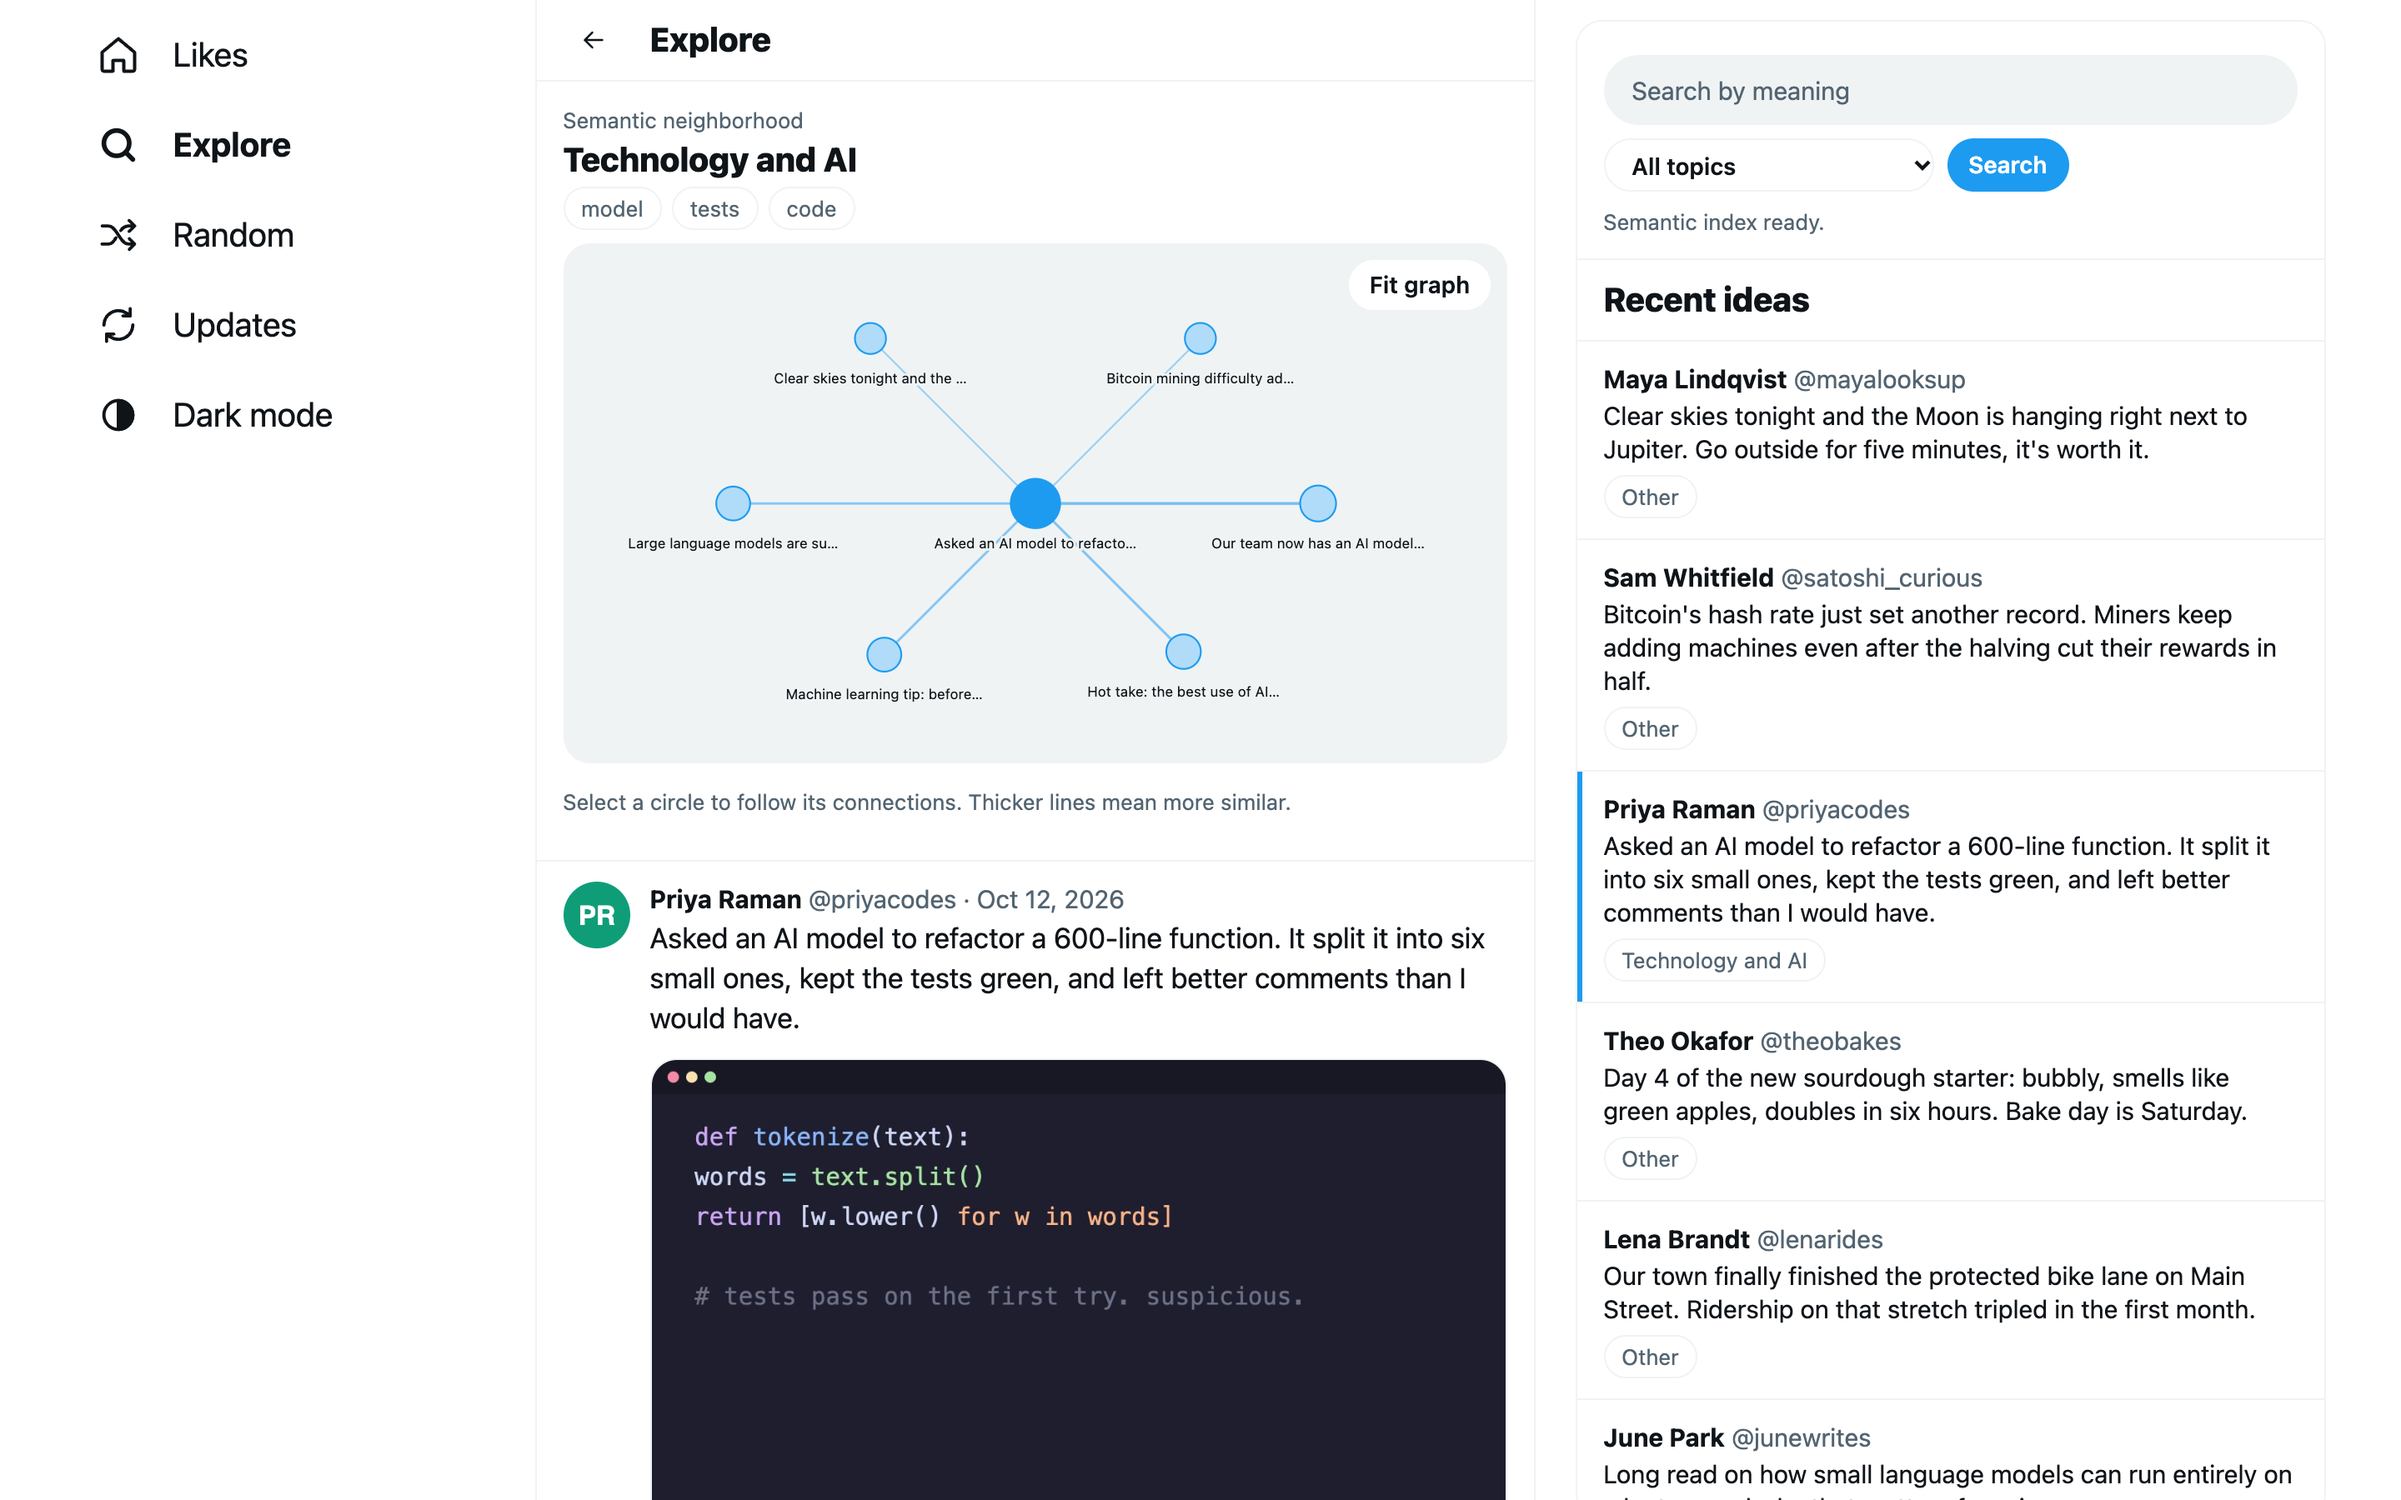
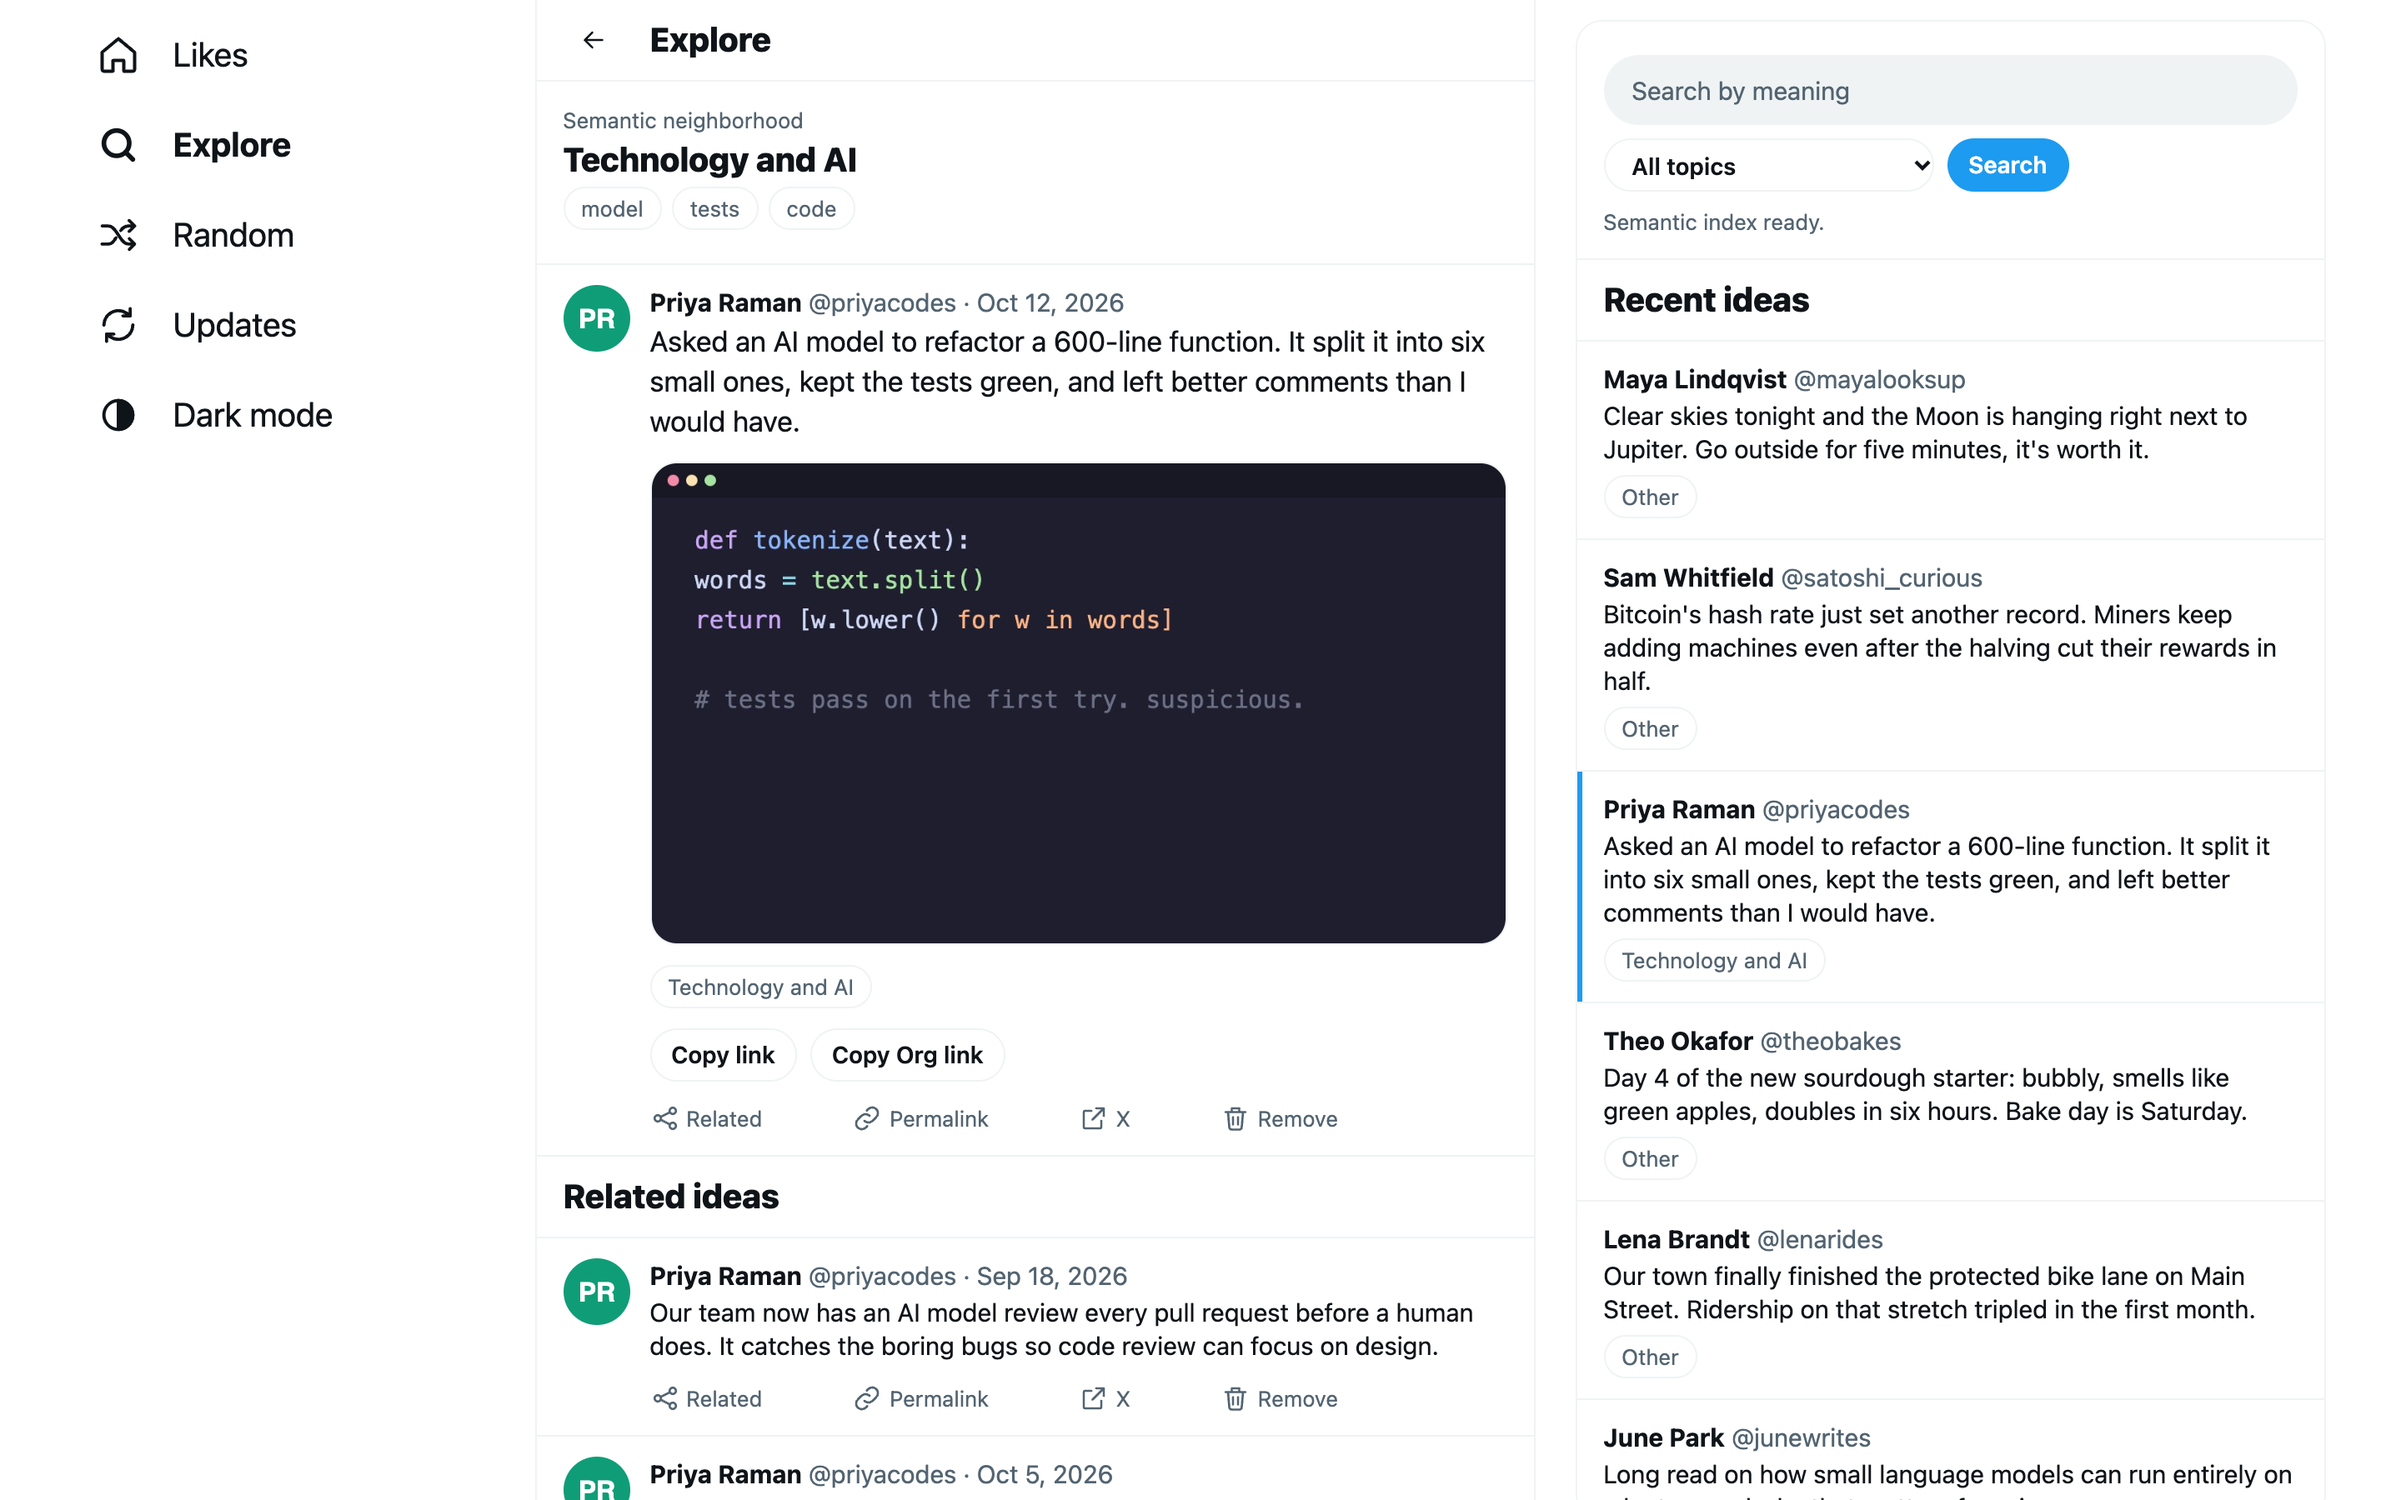
Remove the graph from Explore
Explore now shows a tweet's neighborhood label and themes, the tweet, and its
Related ideas list; Related on any of them moves to that neighborhood. The
knowledge API no longer computes graph edges. Tests, docs, the site and its
screenshots are updated.

Changed region(s): [[0.2188, 0.1867, 0.625, 1.0]]

diff --git a/web/src/pages/Explore.jsx b/web/src/pages/Explore.jsx
@@ -1,6 +1,5 @@
 import { useEffect, useState } from 'react';
 import Tweet from '../components/Tweet.jsx';
-import Graph from '../components/Graph.jsx';
 import CopyLinks from '../components/CopyLinks.jsx';
 import { PageBar } from './TweetPage.jsx';
 import { getJSON } from '../api.js';
@@ -41,11 +40,11 @@ function ResultRow({ row, selected, onOpen }) {
   );
 }
 
-export default function Explore({ id, tweets, byId, wide, compact, onRemove, notify }) {
+export default function Explore({ id, tweets, byId, wide, onRemove, notify }) {
   const [{ q, topic }, setSearch] = useState(readLocation);
   const [draft, setDraft] = useState(q);
   const [results, setResults] = useState({ key: null, rows: [], message: '' });
-  const [graph, setGraph] = useState({ id: null, data: null, message: '' });
+  const [related, setRelated] = useState({ id: null, data: null, message: '' });
   const status = useIndexStatus();
   const ready = status?.available > 0;
   const suffix = new URLSearchParams(Object.entries({ q, topic }).filter(([, v]) => v)).toString();
@@ -68,10 +67,10 @@ export default function Explore({ id, tweets, byId, wide, compact, onRemove, not
   useEffect(() => {
     if (!id || !ready) return;
     let cancelled = false;
-    setGraph({ id, data: null, message: 'Finding related ideas…' });
+    setRelated({ id, data: null, message: 'Finding related ideas…' });
     getJSON('/api/knowledge/graph?id=' + encodeURIComponent(id)).then(
-      data => { if (!cancelled) setGraph({ id, data, message: '' }); },
-      e => { if (!cancelled) setGraph({ id, data: null, message: e.status === 404 ? 'This tweet is not in the index yet.' : e.message }); },
+      data => { if (!cancelled) setRelated({ id, data, message: '' }); },
+      e => { if (!cancelled) setRelated({ id, data: null, message: e.status === 404 ? 'This tweet is not in the index yet.' : e.message }); },
     );
     return () => { cancelled = true; };
   }, [id, ready]);
@@ -101,7 +100,7 @@ export default function Explore({ id, tweets, byId, wide, compact, onRemove, not
   let main;
   if (id) {
     const tweet = byId.get(id);
-    const data = graph.id === id ? graph.data : null;
+    const data = related.id === id ? related.data : null;
     const center = data?.nodes[0]?.tweet;
     main = (
       <>
@@ -111,11 +110,9 @@ export default function Explore({ id, tweets, byId, wide, compact, onRemove, not
             <span className="secondary small">Semantic neighborhood</span>
             <h2>{data.neighborhood?.title || 'Connected ideas'}</h2>
             {!!data.neighborhood?.themes?.length && <div className="badges">{data.neighborhood.themes.map(theme => <span key={theme} className="badge">{theme}</span>)}</div>}
-            <Graph data={data} onSelect={open} compact={compact} />
-            <p className="secondary small">Select a circle to follow its connections. Thicker lines mean more similar.</p>
           </section>
         )}
-        {(graph.message || !ready) && <p className="empty" role="status">{ready ? graph.message : describeStatus(status)}</p>}
+        {(related.message || !ready) && <p className="empty" role="status">{ready ? related.message : describeStatus(status)}</p>}
         {tweet && (
           <Tweet tweet={tweet} full onRelated={open} onRemove={onRemove}>
             {center?.topic && <span className="badge topic">{center.topic}</span>}

diff --git a/docs/index.html b/docs/index.html
@@ -165,8 +165,8 @@ footer .wrap { display: flex; flex-wrap: wrap; gap: 12px 24px; justify-content: 
     <p class="intro">The app works the same on a laptop and a phone, in light or dark mode.</p>
     <div class="tour-desktop">
       <figure class="shot">
-        <img src="screenshots/explore.png" width="2880" height="1800" alt="Explore page: a graph centered on a tweet about refactoring code with AI, connected to other AI and programming likes." loading="lazy">
-        <figcaption><b>Explore</b> draws a tweet's neighborhood of related likes. Select a circle to follow it, or search by meaning on the right.</figcaption>
+        <img src="screenshots/explore.png" width="2880" height="1800" alt="Explore page for a tweet about refactoring code with AI, labeled Technology and AI, with search by meaning in the sidebar." loading="lazy">
+        <figcaption><b>Explore</b> labels a tweet's neighborhood and lists related ideas below it. Search by meaning on the right.</figcaption>
       </figure>
       <figure class="shot">
         <img src="screenshots/updates.png" width="2560" height="960" alt="Updates page showing 'Up to date. 3 new likes saved.' with the last and next check times, and Update now, Reconnect X and Finish sign-in buttons." loading="lazy">
@@ -217,7 +217,7 @@ footer .wrap { display: flex; flex-wrap: wrap; gap: 12px 24px; justify-content: 
     <div class="cards">
       <div class="card"><div class="icon">🔎</div><h3>Search and filter</h3><p>Search text, authors and article titles. Filter by year, month or author. Sort newest, oldest or shuffled. Your filters stay in the address, so links keep them.</p></div>
       <div class="card"><div class="icon">🖼</div><h3>Media and articles saved</h3><p>Photos, videos and GIFs are downloaded. X articles open in the app with their formatting and images. Quoted tweets come along too.</p></div>
-      <div class="card"><div class="icon">🧭</div><h3>Related and Explore</h3><p>Find likes with a similar meaning, even without shared words. Explore shows a graph of connected ideas, with stable links you can paste into notes.</p></div>
+      <div class="card"><div class="icon">🧭</div><h3>Related and Explore</h3><p>Find likes with a similar meaning, even without shared words. Explore searches your likes by meaning, with stable links you can paste into notes.</p></div>
       <div class="card"><div class="icon">🌐</div><h3>Translation</h3><p>Non-English tweets are shown in English, translated on your Mac. One tap shows the original.</p></div>
       <div class="card"><div class="icon">🎲</div><h3>Random</h3><p>Rediscover old likes one at a time. Swipe or use the arrow keys.</p></div>
       <div class="card"><div class="icon">🗑</div><h3>Remove</h3><p>Delete a tweet and its media from the archive. Removed tweets are never imported again.</p></div>

diff --git a/web/src/App.jsx b/web/src/App.jsx
@@ -31,7 +31,6 @@ export default function App() {
   const [busy, setBusy] = useState(false);
   const [toast, setToast] = useState(null);
   const wide = useMedia('(min-width: 1100px)');
-  const compact = useMedia('(max-width: 599px)');
 
   useEffect(() => {
     getJSON('/archive/tweets.json').then(setTweets, e => setError(e.message || 'The archive could not be loaded.'));
@@ -66,7 +65,7 @@ export default function App() {
     }
   }
 
-  const shared = { tweets, byId, error, wide, compact, notify, onRemove: setRemoving };
+  const shared = { tweets, byId, error, wide, notify, onRemove: setRemoving };
   // Each navigation remounts the page so it reads its state from the new address.
   let page;
   if (route.page === 'tweet') page = <TweetPage key={navigation} id={route.id} {...shared} />;

diff --git a/web/src/styles.css b/web/src/styles.css
@@ -281,9 +281,6 @@ body.no-scroll { overflow: hidden; }
 .explore-search { margin-top: 8px; }
 .neighborhood { padding: 12px 16px; border-bottom: 1px solid var(--border); }
 .neighborhood h2 { margin: 2px 0 4px; font-size: 20px; line-height: 24px; font-weight: 800; }
-.graph { position: relative; margin: 8px 0; border: 1px solid var(--border); border-radius: 16px; overflow: hidden; background: var(--bg-input); touch-action: none; }
-.graph svg { display: block; width: 100%; height: auto; cursor: grab; }
-.graph .fit { position: absolute; top: 8px; right: 8px; }
 .edge { stroke: var(--accent); }
 .node { cursor: pointer; }
 .node circle { fill: color-mix(in srgb, var(--accent) 35%, var(--bg)); stroke: var(--accent); stroke-width: 1.5; }

diff --git a/service/README.md b/service/README.md
@@ -3,8 +3,8 @@
 Runs the existing Clojure importer from a Node service, with a React app at `/app/` and a
 dedicated Chrome profile.
 Updates run every four hours, with an Update now button. Scraping does not require an LLM.
-The knowledge explorer uses a small local embedding model for semantic search and graph
-neighbors. It downloads model weights on first use and keeps tweet text on this machine.
+The knowledge explorer uses a small local embedding model for semantic search and related
+tweets. It downloads model weights on first use and keeps tweet text on this machine.
 
 ## Mac Mini installation
 
@@ -98,7 +98,7 @@ symlink escapes, video ranges, deduplication, and preserving state when browser 
 Live X collection and restart testing require the deployed Mini and a signed-in X session.
 
 The knowledge browser test uses synthetic posts and the real embedding model to verify
-semantic ranking, authentication return, Org links, graph navigation, and mobile layout.
+semantic ranking, authentication return, Org links, Related ideas navigation, and mobile layout.
 First use requires access to Hugging Face to download model weights. Model and vector
 caches are private files under `.service/`; do not commit them. The index refreshes every
 minute independently of the four-hour collection schedule. All knowledge APIs/assets

diff --git a/README.md b/README.md
@@ -62,9 +62,10 @@ adds:
   returned to the requested tweet in the same tab.
 - Search by meaning, including quoted text and article titles/previews. A query can
   match a related idea without sharing its exact words.
-- A graph centered on a selected tweet and up to twelve semantic neighbors. Click a
-  node to explore its neighborhood, use the related-ideas list or keyboard navigation,
-  and drag to pan or choose **Fit graph**. Edges represent model similarity, not citations.
+- A page for a selected tweet with a short label for its neighborhood, a few shared
+  themes, and up to twelve semantically similar likes under **Related ideas**. Choose
+  **Related** on any of them to move to its neighborhood. Similarity comes from the
+  model, not from links or replies.
 - Suggested topic filters. These are approximate classifications from a fixed topic
   list, not manually curated categories or factual judgments.
 

diff --git a/TUTORIAL.md b/TUTORIAL.md
@@ -43,7 +43,7 @@ For configuration and token rotation, see [service operations](service/README.md
   page with related likes.
 - Select an article card to read the article in the app, with its images.
 - **Related** shows similar likes: in a sidebar on wide screens, full screen on phones.
-- **Explore** searches by meaning and shows a graph of related ideas, with **Copy link**
+- **Explore** searches by meaning and lists related ideas for a tweet, with **Copy link**
   and **Copy Org link** for notes.
 - Non-English text appears in English; select the note above it to see the original.
 - Use the half-circle in the menu for light or dark mode.
